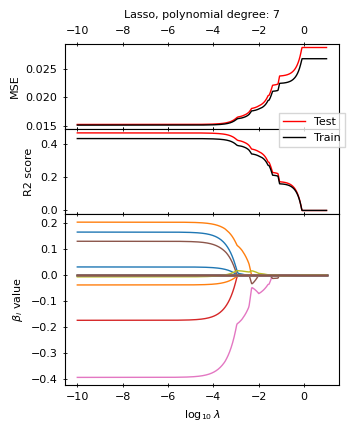
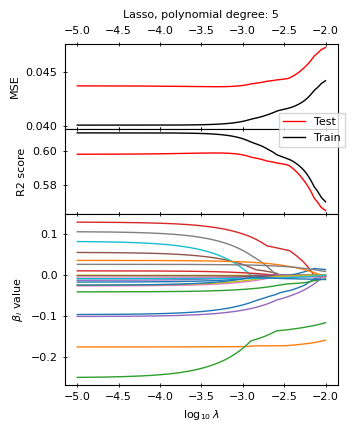
Cleaned up

diff --git a/project1/geodata.py b/project1/geodata.py
@@ -9,17 +9,17 @@ from sklearn.preprocessing import PolynomialFeatures, StandardScaler
 # Load the terrain
 terrain1 = np.array(imread('n59_e008_1arc_v3.tif')).T
 terrain2 = np.array(imread('n59_e007_1arc_v3.tif')).T
-terrain = np.concatenate(np.array([terrain2, terrain1])).T / 1e3
+_terrain = np.concatenate(np.array([terrain2, terrain1])).T / 1e3
 
 np.random.seed(2023)
 
-tot_points = np.min(terrain.shape)
+tot_points = np.min(_terrain.shape)
 n_samples = 1000
 data_samples = np.random.randint(0, tot_points, size=(n_samples, 2))
 x = data_samples[:, 0]
 y = data_samples[:, 1]
 
-terrain = terrain[x, y]
+terrain = _terrain[x, y]
 
 reg = Regression(x, y, terrain.T, 'geodata')
 reg.OLS(30, store_beta=False)
@@ -37,7 +37,7 @@ plt.show()
 # Show the terrain
 fig, ax = plt.subplots(figsize=set_size())
 ax.set_title('Terrain over Telemark, Norway')
-im = ax.imshow(terrain, cmap='terrain')
+im = ax.imshow(_terrain, cmap='terrain')
 fig.colorbar(im, label='Elevation [km]', pad=0.02)
 ax.set_xlabel('X [arcsec]')
 ax.set_ylabel('Y [arcsec]')

diff --git a/project1/project1.py b/project1/project1.py
@@ -14,7 +14,7 @@ reg.OLS(8)
 reg.plot_evolution('OLS')
 reg.ridge(-4, 2, 5, 1000)
 reg.plot_evolution('ridge')
-reg.plot_evolution('lasso', 'franke-test')
-reg.bias_variance_tradeoff(max_degree=16, n_bootstraps=100)
+reg.plot_evolution('lasso')
+reg.bias_variance_tradeoff(max_degree=7, n_bootstraps=100)
 reg.cross_validation(n_kfolds=10)
 plt.show()

diff --git a/project1/src.py b/project1/src.py
@@ -484,7 +484,7 @@ class Regression:
             error_y_test = y_test[:, np.newaxis]
             keepdims = False
             filename = self.figname + '-bias-var-trade'
-            scale = 'log'
+            scale = 'linear'
         
         else:
             degree = np.arange(1, max_degree+1)
